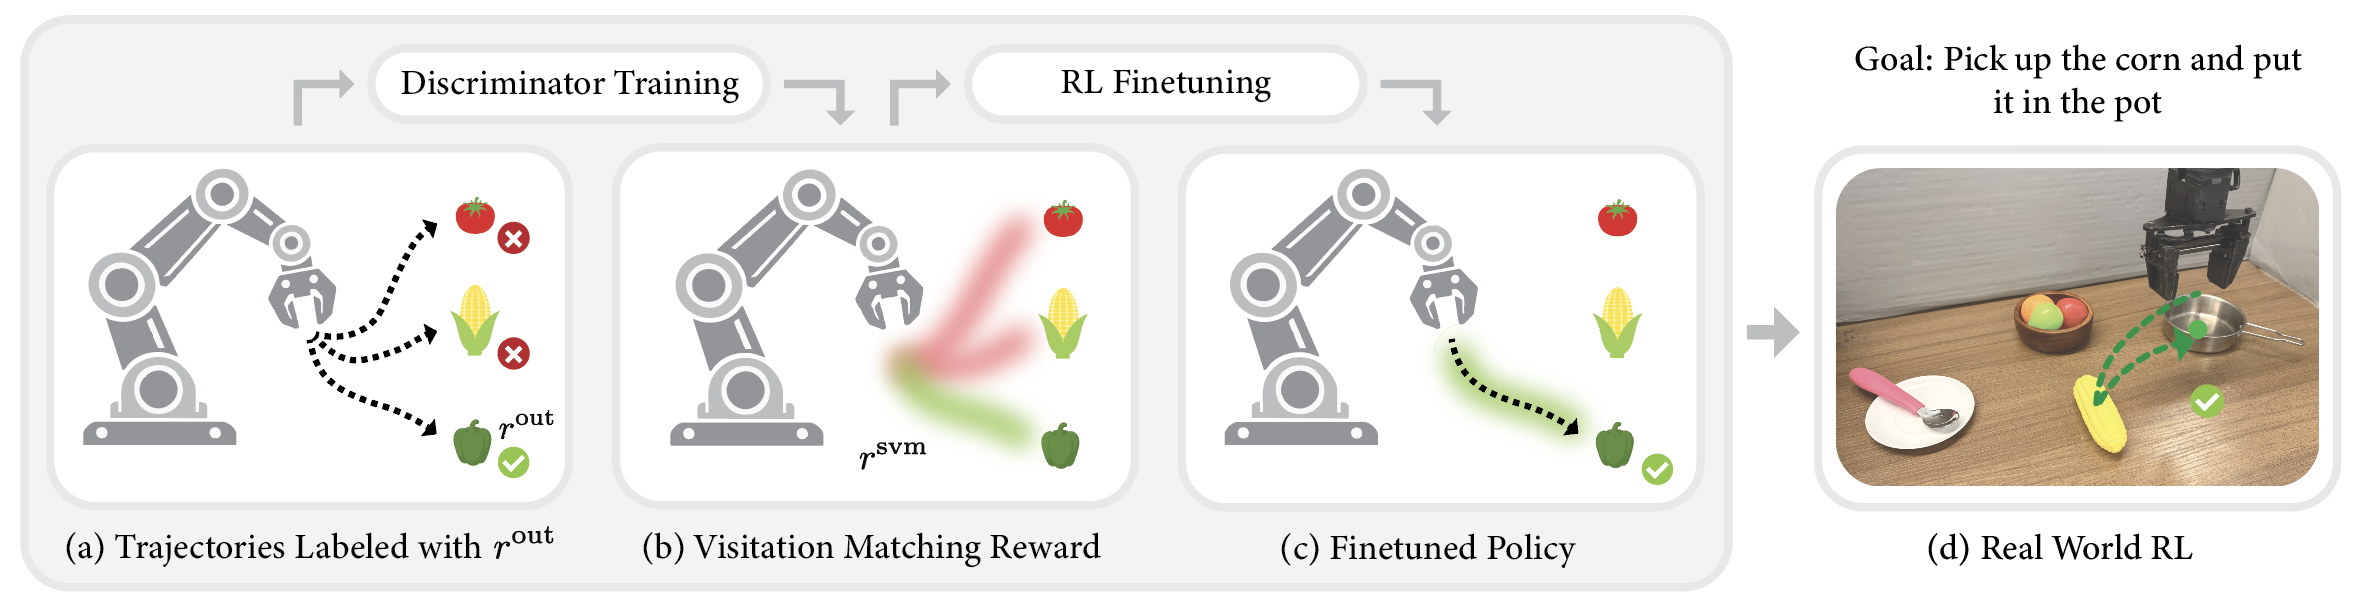
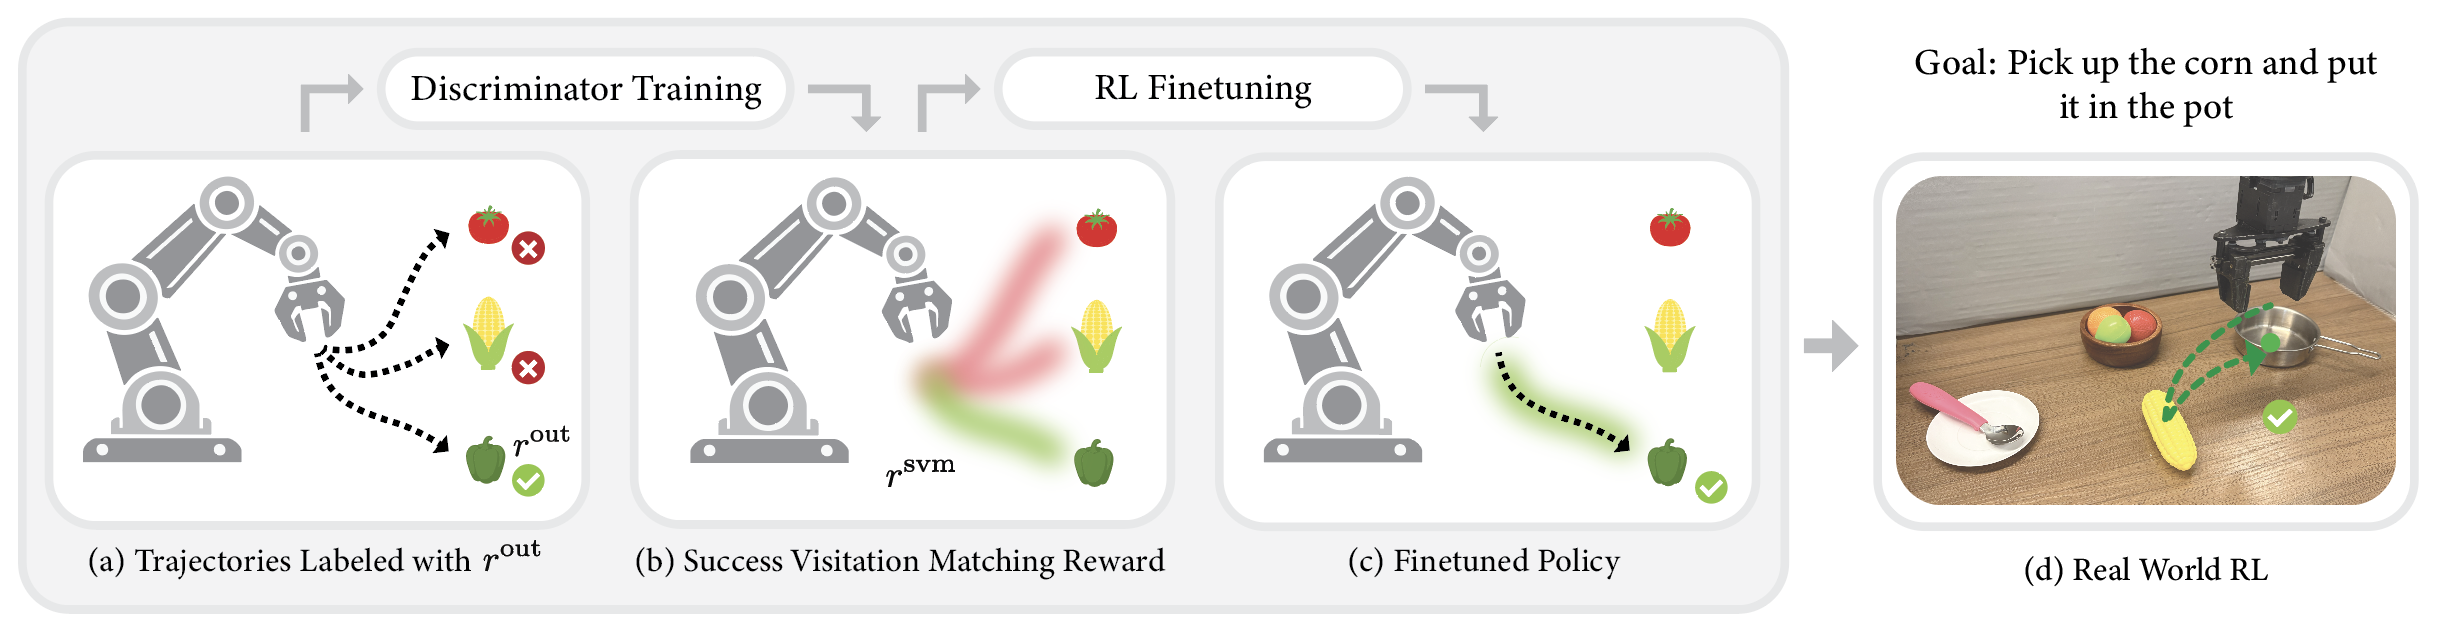
Second draft

diff --git a/static/css/index.css b/static/css/index.css
@@ -273,6 +273,78 @@ body {
   border-radius: 6px;
 }
 
+.robomimic-results-figure {
+  margin-bottom: 1.5rem;
+  text-align: center;
+}
+
+.robomimic-results-legend {
+  display: block;
+  max-width: 65%;
+  height: auto;
+  margin: 0 auto 0.15rem;
+  transform: translateX(1.25rem);
+}
+
+.robomimic-results-row {
+  display: flex;
+  justify-content: center;
+  gap: 0.75rem;
+  margin: 0 auto;
+  max-width: 35%;
+}
+
+.robomimic-results-row img {
+  width: 0;
+  min-width: 0;
+  height: auto;
+  border-radius: 6px;
+}
+
+.robomimic-results-row img:first-child {
+  flex: 1.15;
+}
+
+.robomimic-results-row img:last-child {
+  flex: 1.00;
+}
+
+.extraction-results-figure {
+  margin-bottom: 1.5rem;
+  text-align: center;
+}
+
+.extraction-results-legend {
+  display: block;
+  max-width: 100%;
+  height: auto;
+  margin: 0 auto 0.5rem;
+  transform: translateX(1.25rem);
+}
+
+.extraction-results-row {
+  display: flex;
+  justify-content: center;
+  gap: 0.75rem;
+  margin: 0 auto;
+  max-width: 52%;
+}
+
+.extraction-results-row img {
+  width: 0;
+  min-width: 0;
+  height: auto;
+  border-radius: 6px;
+}
+
+.extraction-results-row img:first-child {
+  flex: 1.15;
+}
+
+.extraction-results-row img:not(:first-child) {
+  flex: 1;
+}
+
 .result-figure {
   margin-bottom: 1.5rem;
 }

diff --git a/index.html b/index.html
@@ -142,10 +142,7 @@
             In many modern applications of reinforcement learning (RL), the natural reward for a task of interest is inherently sparse: a reward of 0 is given everywhere except when the task is completed, when a reward of +1 is given. Training a policy to maximize such a sparse reward requires solving a challenging credit assignment problem, leading to slow or ineffective RL improvement.
           </p>
           <p>
-            Training a policy to maximize such a sparse reward requires solving a challenging credit assignment problem, leading to slow or ineffective RL improvement. We propose a simple approach to transform a sparse outcome reward into a dense process reward. Our approach relies on training a discriminator to distinguish between previous successful and unsuccessful trajectories, and using this discriminator to incentivize the RL-learned policy to match the state-action visitations of successful trajectories, while avoiding those of unsuccessful trajectories. By incentivizing the policy to match the visitations over all states, not just those that correspond to task success, this reward provides dense feedback on whether progress is being made towards task completion, and, we show, provably achieves this without changing the optimal policy.
-          </p>
-          <p>
-            Focusing on finetuning of robotic control policies, we demonstrate that our approach leads to significantly faster RL finetuning performance on both simulated and real-world manipulation tasks, as compared to simply maximizing the sparse outcome reward.
+            We propose a simple approach to transform a sparse outcome reward into a dense process reward. Our approach, Success Visitation Matching (SVM), relies on training a discriminator to distinguish between successful and unsuccessful trajectories. The discriminator is then used as a reward that incentivizes the RL policy to match the state-action visitations associated with success while avoiding those associated with failure. Focusing on finetuning of robotic control policies, we show that this reward leads to significantly faster RL finetuning performance on both simulated and real-world manipulation tasks, while provably preserving the optimal policy.
           </p>
         </div>
       </div>
@@ -165,23 +162,24 @@
         </figure>
         <div class="content has-text-justified">
           <p>
-            Our goal is to design a process reward that
+            We consider the problem of finetuning a pretrained policy $\pi_{\text{pre}}$ using a sparse outcome reward. To enable efficient RL finetuning, we seek a dense process reward that satisfies two desiderata:
           </p>
           <p class="method-subpoint">
-            (a) provides dense, step-level feedback that guides the learner towards successful states, and
+            (a) It provides step-level feedback that guides the learner toward successful states, and
           </p>
           <p class="method-subpoint">
-            (b) preserves the optimal policies under the outcome reward
+            (b) It preserves the optimal policies under the original outcome reward.
           </p>
           <p>
-            To do so, we follow a simple principle: given past observations from the environment, reward the learner for visiting states that previously led to success, and penalize the learner for visiting states that previously led to failure.
-          </p>
-          <p>
-            Concretely, assume we have access to a set of trajectories labeled with sparse outcome rewards \(r^{\mathrm{out}}\), we train a discriminator \(f_\theta(s,a)\) to distinguish state-actions in successful trajectories from those in unsuccessful trajectories. We then define the <b>success visitation matching reward</b> as the logit of the discriminator:
+            Our approach is based on a simple principle: given past trajectories labeled by outcome reward $r^{\mathrm{out}}$, reward the learner for visiting state-actions that are associated with successful episodes, and penalize those associated with unsuccessful episodes. Concretely, let $\mathcal{D}^+$ and $\mathcal{D}^-$ denote the state-action pairs from successful and unsuccessful trajectories, we train a discriminator to distinguish these two sets:
             
-            $$r^{\mathrm{svm}}(s,a)=\log \frac{f_\theta(s,a)}{1-f_\theta(s,a)}$$
+            $$\widehat{f}(s,a) = {\text{argmin}_{f}}\; \mathbb{E}_{(s, a)\sim \mathcal{D}^+} [\log f(s,a)]+ \mathbb{E}_{(s, a)\sim \mathcal{D}^-}[\log (1-f(s,a))]$$
             
-            This yields a dense process reward that incentivizes the learner to visit states likely to lead to success based on past observations. In our paper, we in addition show that this reward provably preserves the optimal policies under the outcome reward, thus satisfying the two desiderata outlined above.
+            We then define the <b>success visitation matching (SVM) reward</b> as the discriminator logit:
+            
+            $$r^{\mathrm{svm}}(s,a)=\log \frac{\widehat{f}(s,a)}{1-\widehat{f}(s,a)}$$
+            
+            This yields a dense process reward that encourages the learner to visit states likely to lead to success based on past observations. In our paper, we show that this reward provably preserves the optimal policies under the outcome reward, thereby satisfying both desiderata above.
           </p>
           <p>
 
@@ -214,7 +212,7 @@
         <h2 class="title is-3">Results</h2>
         <h3 class="title is-4 result-subtitle">SVM Process Rewards Enable Efficient RL Finetuning</h3>
         <details class="scene-images-dropdown">
-          <summary>Click to see the LIBERO and RoboCasa scenes</summary>
+          <summary>Click to see the $\texttt{LIBERO}$ and $\texttt{RoboCasa}$ scenes</summary>
           <div class="scene-images-row">
             <img src="./static/images/scene_images/libero_kitchen_scene_1.png" alt="Libero kitchen scene 1">
             <img src="./static/images/scene_images/libero_kitchen_scene_2.png" alt="Libero kitchen scene 2">
@@ -226,7 +224,7 @@
         </details>
         <div class="content has-text-justified">
           <p>
-            We consider the performance of RL with SVM rewards in the RL finetuning regime on the LIBERO benchmarks and RoboCasa pick and place tasks, using DSRL and Residual RL as the  RL finetuning algorithms. Across all tasks, SVM rewards lead to significantly faster RL finetuning performance as compared to outcome rewards.
+            We evaluate SVM rewards in the RL finetuning regime on the $\texttt{LIBERO}$ benchmarks and $\texttt{RoboCasa}$ pick-and-place tasks, using DSRL and Residual RL as the finetuning algorithms. Across all tasks, SVM rewards lead to significantly faster finetuning compared to outcome rewards.
           </p>
         </div>
         <figure class="sim-results-figure">
@@ -235,7 +233,7 @@
         </figure>
         <h3 class="title is-4 result-subtitle">SVM Process Rewards Enable Efficient Real-World RL</h3>
         <div class="content has-text-justified">
-          <p>Next, we demonstrate that SVM scales to real-world robotic RL finetuning. We run DSRL on three real-world WidowX tasks: $\texttt{Pick and Place}$, $\texttt{Open Drawer}$, and $\texttt{Cover Knife with Cloth}$. Across all three tasks, SVM rewards lead to significantly faster RL finetuning compared to using outcome rewards alone. The video below provides a side-by-side comparison of DSRL with and without SVM rewards.</p>
+          <p>Next, we demonstrate that SVM scales to real-world robotic RL finetuning. We run DSRL on three real-world WidowX tasks: $\texttt{Pick and Place}$, $\texttt{Open Drawer}$, and $\texttt{Cover Knife}$. Across all three tasks, SVM rewards lead to significantly faster RL finetuning compared to using outcome rewards alone. The video below provides a side-by-side comparison of DSRL with and without SVM rewards.</p>
         </div>
         <figure class="result-figure">
           <img class="result-img-inset" src="./static/images/widowx.png" alt="Real-world WidowX robot results for pick and place, open drawer, and cover knife tasks">
@@ -250,6 +248,38 @@
         </div>
         <figure class="result-figure">
           <img class="result-img-inset result-img-inset-sm" src="./static/images/pi0.png" alt="Finetuning VLAs with SVM process rewards">
+        </figure>
+        <h3 class="title is-4 result-subtitle">RL from Demonstrations with SVM Process Rewards</h3>
+        <div class="content has-text-justified">
+          <p>Next, we seek to understand whether SVM rewards can also lead to improvement when running RL from scratch given a set of successful demonstrations. In the $\texttt{Robomimic}$ benchmark with RLPD, we see that SVM leads to substantial gains over running RL on
+          only the outcome reward. However, the performance of SVM is essentially identical to that of GAIL. We hypothesize that in this case, the
+          rewards obtained by GAIL and SVM are approximately equivalent, since the discriminator learned by SVM and GAIL is trained on
+          similar sets of positive and negative examples. </p>
+        </div>
+        <figure class="robomimic-results-figure">
+          <img class="robomimic-results-legend" src="./static/images/sublegend.png" alt="Results legend">
+          <div class="robomimic-results-row">
+            <img src="./static/images/robomimic_sac_can.png" alt="Robomimic can task results">
+            <img src="./static/images/robomimic_sac_square.png" alt="Robomimic square task results">
+          </div>
+        </figure>
+        <h3 class="title is-4 result-subtitle">How can we most effectively extract a policy from the SVM discriminator?</h3> 
+        <div class="content has-text-justified">
+          <p>Given the discriminator $\widehat{f}$ or the successful episodes, one could in principle extract a policy in several other ways. We compare SVM against three such alternatives:</p>
+          <ol>
+            <li><strong>DSRL + BC:</strong> We add a behavioral cloning regularizer on successful transitions from $\mathcal{D}^+$.</li>
+            <li><strong>$\widehat{f}$ Sampling:</strong> We use the discriminator for best-of-N action sampling.</li>
+            <li><strong>$\widehat{f}$ Maximization:</strong> We train the policy to maximize the discriminator score instead of a learned Q-function.</li>
+          </ol>
+          <p>We find that SVM is significantly more effective than these alternative policy extraction methods.</p>
+        </div>
+        <figure class="extraction-results-figure">
+          <img class="extraction-results-legend" src="./static/images/classifier_usage_legend_horizontal.png" alt="Classifier usage results legend">
+          <div class="extraction-results-row">
+            <img src="./static/images/extraction/dsrl_scene1.png" alt="Policy extraction results scene 1">
+            <img src="./static/images/extraction/dsrl_scene2.png" alt="Policy extraction results scene 2">
+            <img src="./static/images/extraction/dsrl_scene3.png" alt="Policy extraction results scene 3">
+          </div>
         </figure>
       </div>
     </div>